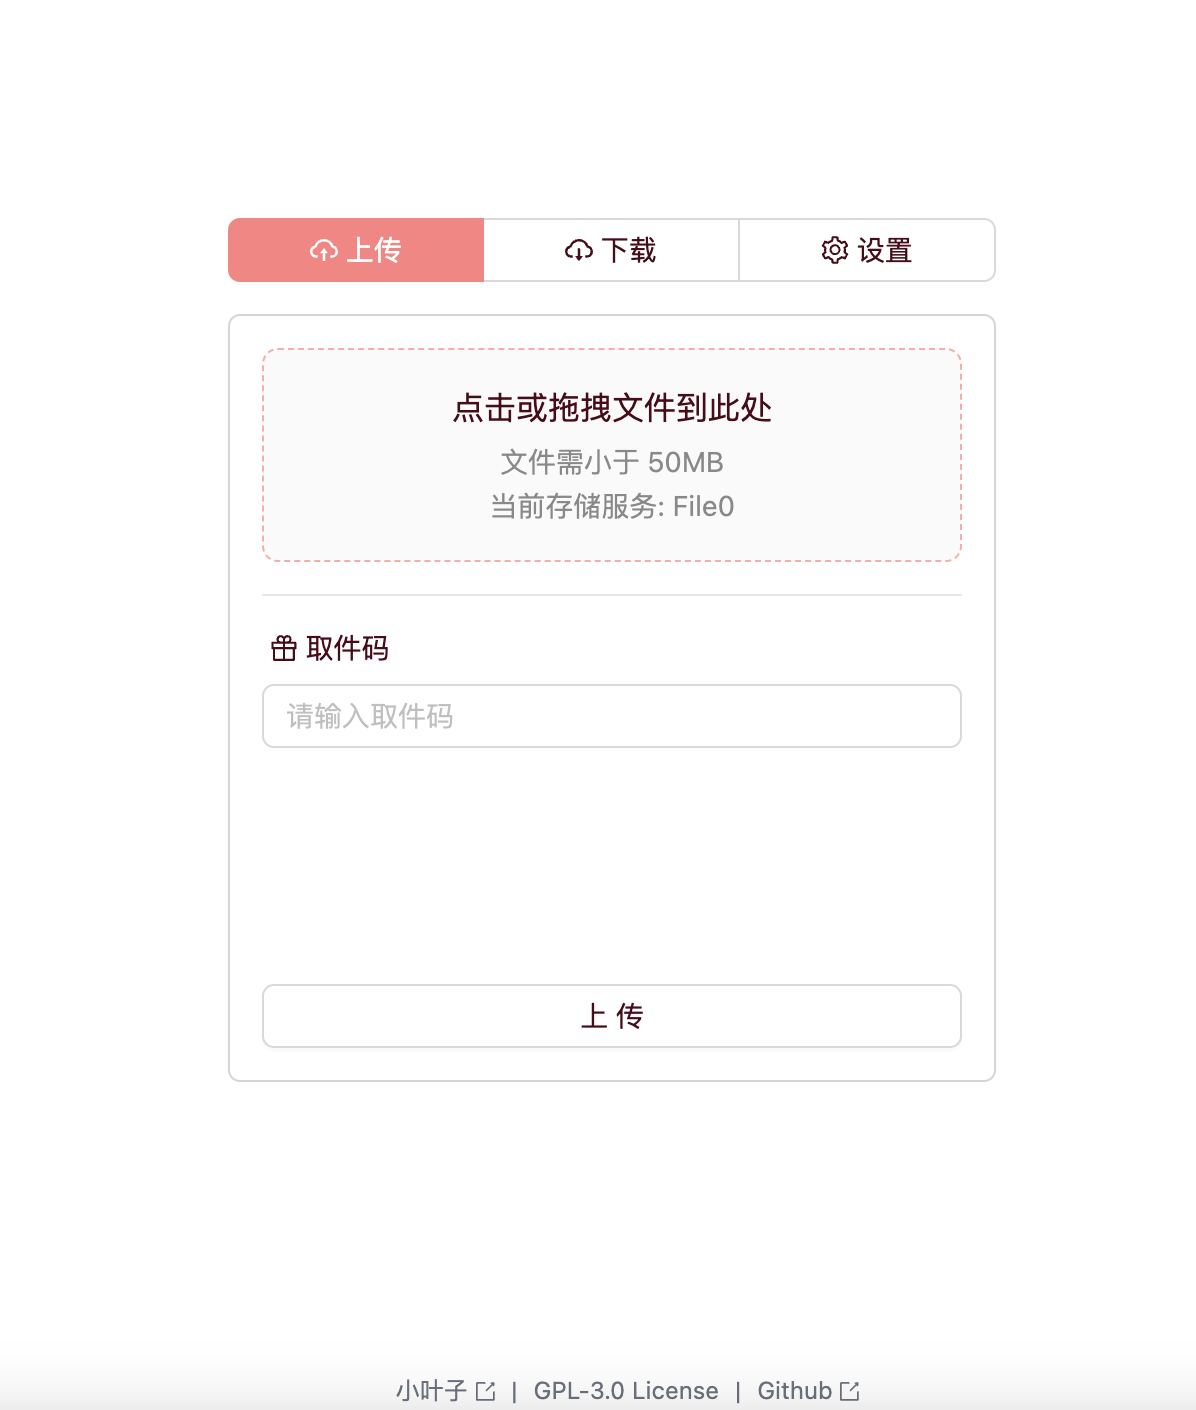
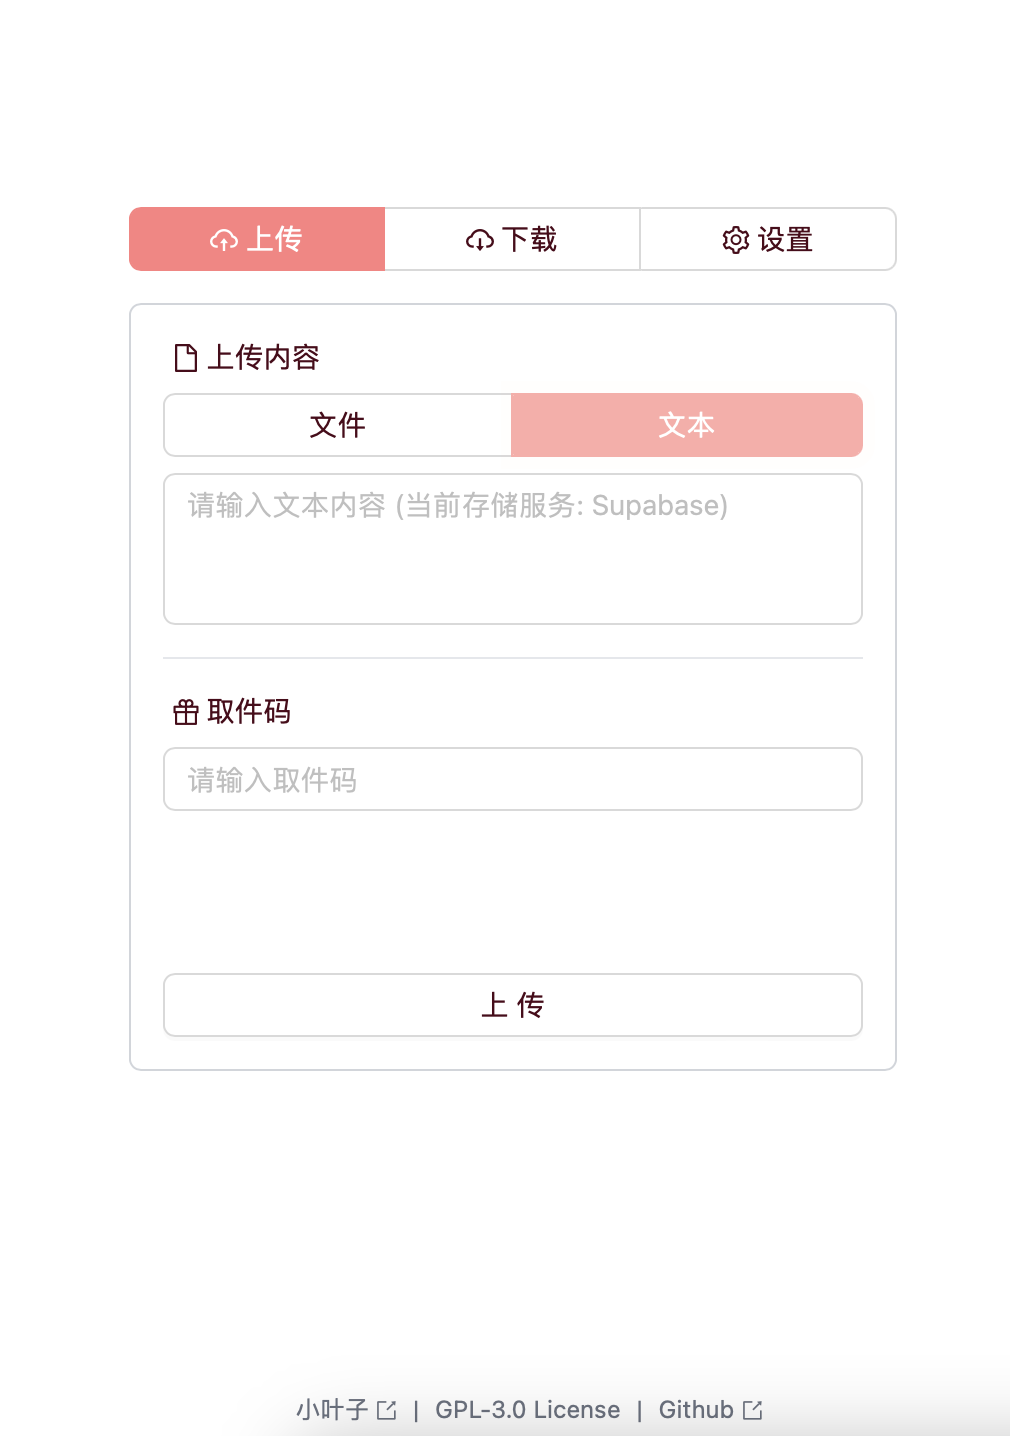
update readme

diff --git a/README.md b/README.md
@@ -3,8 +3,8 @@ A serverless file delivery web app based on free `Cloudflare R2` / `MongoDB Atla
 
 基于 `Cloudflare R2` / `MongoDB Atlas` / `File0` / `Supabase` 的零成本无服务器文件快递柜, 采用 `Next.js`, `React`, `Ant Design`, `Tailwind CSS` 等技术栈.
 
-|![](README_1.png)|![](README_2.png)|![](README_3.png)|
-|:---:|:---:|:---:|
+|![](README_1.png)|![](README_2.png)|![](README_3.png)|![](README_4.png)|
+|:---:|:---:|:---:|:---:|
 
 # Usage
 使用方法
